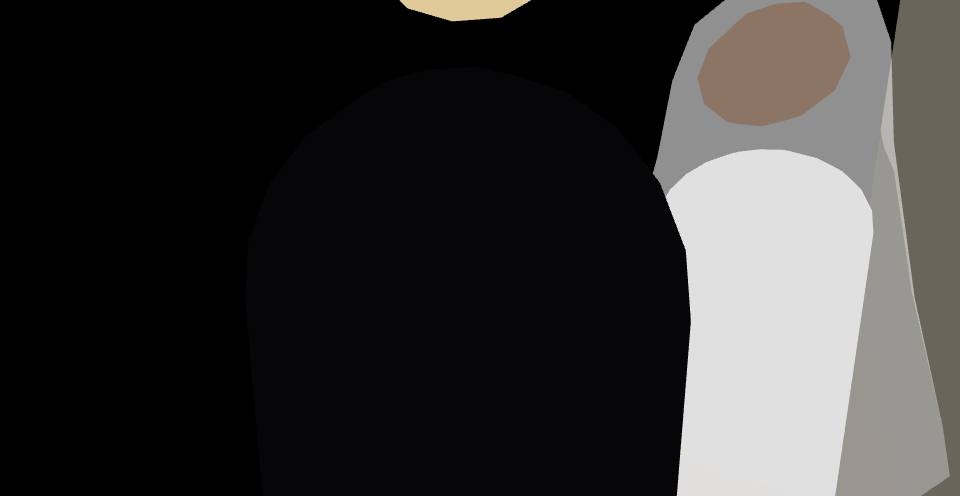
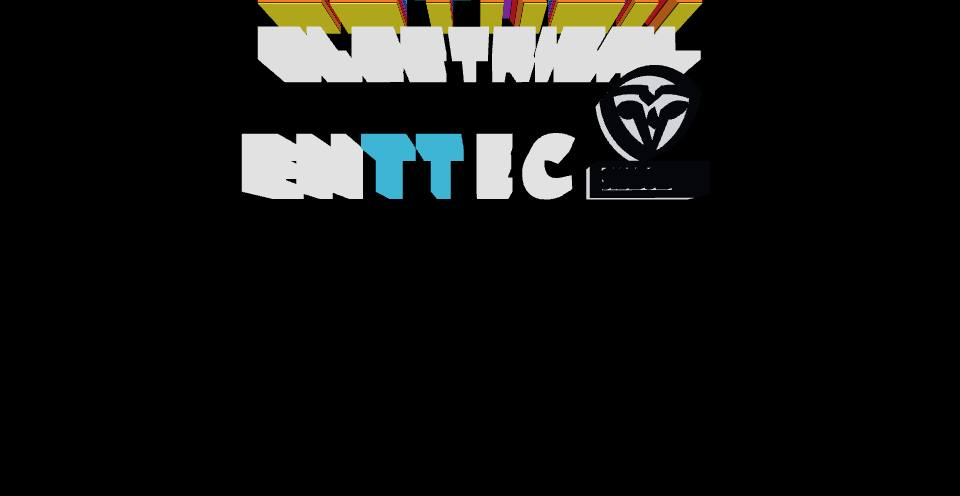
Finale (Lloyd's note, V10): about two seconds less black before the marks come in: they start just clear of the top of the frame, not far above it, and the drop is an ease-out over 5 s, in at speed and landing softly. Shot 2 reads A place for the community (the tool's text)
Claude-Session: https://claude.ai/code/session_01TvFyJ7jgaVEcvXM9wy2J9o

diff --git a/index.html b/index.html
@@ -3539,7 +3539,7 @@ function buildDoor(){ if(doorLeaf){ scene.remove(doorLeaf); doorLeaf=null; }
 // Lotron on top, ENTTEC bottom left, Shadow AV bottom right, BROUGHT TO LIGHT BY above them; the
 // triangle flattens from 3D to 2D, GANDEL HALL 2026 comes up beneath it in shimmering rainbow,
 // holds, and the picture fades to black. The tour ends there.
-const FIN={walk:6.5, pan:1.5, drop:6, flat:5, hold:4, fade:2};   // seconds per phase; the pan's last 0.5 s is pure black (Lloyd, V9)
+const FIN={walk:6.5, pan:1.5, drop:5, flat:5, hold:4, fade:2};   // seconds per phase; the pan's last 0.5 s is pure black (Lloyd, V9); pan and drop shorter, the black about 2 s less (V10)
 // (Lloyd, V5) the walk ends on the groom's back filling the frame, then black; the marks come
 // down from the top of the frame onto the black, so nothing outside is ever seen
 // (Lloyd, V2) the last scene is the marks alone on black: as the flattening begins the court,
@@ -3611,11 +3611,13 @@ function finaleStep(s){ if(!finale)finaleStart(); if(!finale)return; const F=fin
  const targets=new Map([[logo,[0,L.yTop,0]],[partners[0],[-L.dx0,L.yBot,0]],[partners[1],[L.dx1,L.yBot,0]]]);
  const tP=FIN.walk, tD=tP+FIN.pan, tF=tD+FIN.drop;
  const pk=smooth(Math.max(0,Math.min(1,(s-tP)/(FIN.pan-0.5))));   // the pan up: the marks lift away and take their places above, done 0.5 s before the drop
- const dk=smooth(Math.max(0,Math.min(1,(s-tD)/FIN.drop)));  // the drop: down from the top of the frame into the triangle
+ // the drop: down from the top of the frame into the triangle; it comes in at speed and lands
+ // softly (V10: an ease-out, so the black before the marks appear is short)
+ const dx=Math.max(0,Math.min(1,(s-tD)/FIN.drop)), dk=1-(1-dx)*(1-dx)*(1-dx);
  // the eye stays a metre outside the glass at least; where the triangle would not fit from there
  // (a phone's narrow picture) the whole sculpture shrinks instead
  const th=Math.tan(cam.fov*Math.PI/360), D0=Math.max(0.7*L.top/th,0.55*L.wTot/(th*cam.aspect)), Dmax=COURT.logoZ-1.0, sf=Math.min(1,Dmax/D0), D=Math.min(D0,Dmax);
- const hUp=(D*th*1.3+L.top)*Math.max(1,sf);   // clear of the top of the frame from D out
+ const hUp=(D*th*1.05+L.top)*Math.max(1,sf);   // just clear of the top of the frame from D out (V10: they used to start far above it, a long black)
  turntable.scale.setScalar(F.scale*(1+(sf-1)*pk));
  for(const [o,h] of F.homes){ const t=targets.get(o); if(!t)continue;
   const lift=hUp*pk*(1-dk);
@@ -3666,7 +3668,7 @@ function finaleStep(s){ if(!finale)finaleStart(); if(!finale)return; const F=fin
 // line splits off the glint word, ' / ' stacks a second row under the first, and a row in *...*
 // is stained glass ('*Gandel Hall* / Is brought to |light'). finale is the year under the triangle,
 // sculpture the tag over the marks (both built once, so they take the file as it was at load).
-const TOUR_TEXT={"rainbow-columns":[["A special place / In Melbourne's heart",0,4.4],["Carefully crafted over decades",4.4,8.8],["*Gandel Hall* / Is brought to |light",8.8,13.2]],"dinner":[["A place for community / to come together",5.5,11]],"banquet":[["~Where / ~Rich history and modern tradition / ~Meet",2.5,13.5]],"party":[["A place to have fun!",2,8]],"party-celebrate":[["and celebrate amongst friends",2.3,8.5]],"standing":[["Somewhere for people to share their ideas",2,8]],"wedding-aisle":[["and to celebrate love",2,8]],"finale":[["",0,0]],"finale-top":[["GANDEL HALL",0,0]],"sculpture":[["BROUGHT TO LIGHT BY",0,0]]};
+const TOUR_TEXT={"rainbow-columns":[["A special place / In Melbourne's heart",0,4.4],["Carefully crafted over decades",4.4,8.8],["*Gandel Hall* / Is brought to |light",8.8,13.2]],"dinner":[["A place for the community / to come together",5.5,11]],"banquet":[["~Where / ~Rich history and modern tradition / ~Meet",2.5,13.5]],"party":[["A place to have fun!",2,8]],"party-celebrate":[["and celebrate amongst friends",2.3,8.5]],"standing":[["Somewhere for people to share their ideas",2,8]],"wedding-aisle":[["and to celebrate love",2,8]],"finale":[["",0,0]],"finale-top":[["GANDEL HALL",0,0]],"sculpture":[["BROUGHT TO LIGHT BY",0,0]]};
 fetch('storyboard/titles.json?v='+Date.now()).then(r=>r.ok?r.json():null).then(j=>{ if(j)Object.assign(TOUR_TEXT,j); }).catch(()=>{});
 const TX=k=>(TOUR_TEXT[k]||[]).map(([t,a,b])=>[t,a,b]);
 const TX1=(k,d)=>((TOUR_TEXT[k]||[])[0]||[d])[0]||d;
